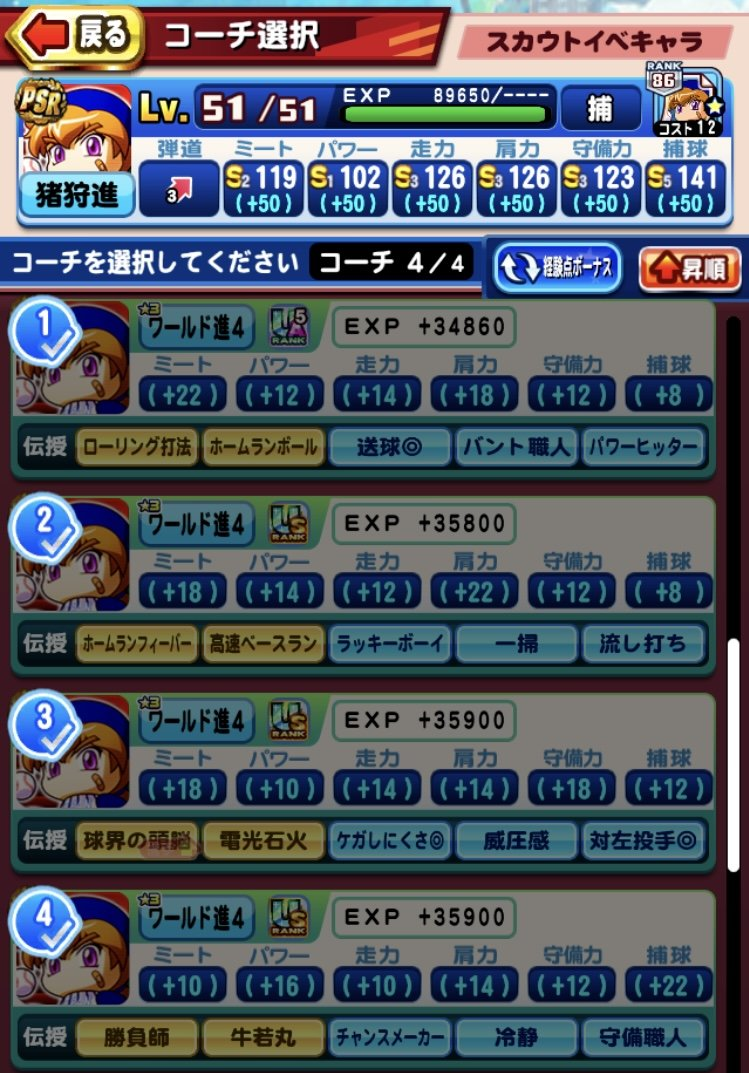
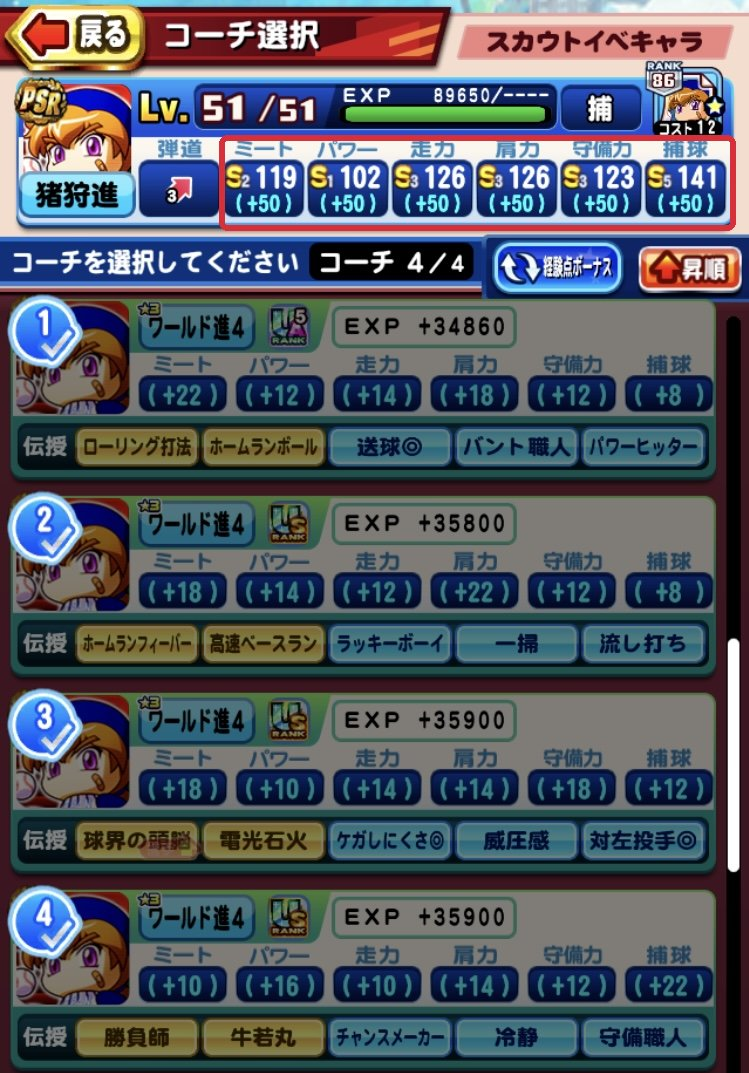
コーチ専用選手：特訓値に赤枠と「コーチだけでオール+50達成」（管理人指示）
Claude-Session: https://claude.ai/code/session_019YJeT2frMqPDhG2b5L7Hge

Changed region(s): [[0.2764, 0.123, 0.9826, 0.2153]]

diff --git a/src/pages/pawaque-coach.html b/src/pages/pawaque-coach.html
@@ -28,7 +28,8 @@ noindex: yes
   <p>また、特殊能力は金特2個・青特3個を伝授する事ができます。</p>
   <p>コーチ専用選手は、<span class="em-blue">コーチ複数人で特訓値が出来るだけ+50になるようにデッキを組み、査定の高い金特2個・青特3個のみを覚えさせて育成します。</span></p>
   <p>こうする事で、コーチを付けた時に特訓値がほぼ最大になり、査定の高い金特・青特が毎回必ず伝授出来るようになります。</p>
-  <img class="pq-img" src="{{root}}img/pawaque/coach_01.jpg" alt="猪狩進の契約書にコーチを4人付けた画面。ミートから捕球まで6つの特訓値がすべて+50になり、4人のコーチがそれぞれ金特2個・青特3個を伝授している" width="749" height="1073" loading="lazy">
+  <img class="pq-img" src="{{root}}img/pawaque/coach_01.jpg" alt="猪狩進の契約書にコーチを4人付けた画面。ミートから捕球まで6つの特訓値がすべて+50になり（赤枠）、4人のコーチがそれぞれ金特2個・青特3個を伝授している" width="749" height="1073" loading="lazy">
+  <p class="pq-cap"><span class="em-red">コーチだけでオール+50達成</span></p>
 
   <h2 id="sim">自分の契約書・手持ちキャラで<span class="cp-nw">一番いい組み合わせを</span><span class="cp-nw">調べるには？</span></h2>
   <p><span class="em-blue">専用のシミュレータを作りました、<a href="{{root}}pawaque/contract_simulator/">コチラ</a>。</span></p>

diff --git a/docs/pawaque/coach/index.html b/docs/pawaque/coach/index.html
@@ -77,7 +77,8 @@
   <p>また、特殊能力は金特2個・青特3個を伝授する事ができます。</p>
   <p>コーチ専用選手は、<span class="em-blue">コーチ複数人で特訓値が出来るだけ+50になるようにデッキを組み、査定の高い金特2個・青特3個のみを覚えさせて育成します。</span></p>
   <p>こうする事で、コーチを付けた時に特訓値がほぼ最大になり、査定の高い金特・青特が毎回必ず伝授出来るようになります。</p>
-  <img class="pq-img" src="../../img/pawaque/coach_01.jpg" alt="猪狩進の契約書にコーチを4人付けた画面。ミートから捕球まで6つの特訓値がすべて+50になり、4人のコーチがそれぞれ金特2個・青特3個を伝授している" width="749" height="1073" loading="lazy">
+  <img class="pq-img" src="../../img/pawaque/coach_01.jpg" alt="猪狩進の契約書にコーチを4人付けた画面。ミートから捕球まで6つの特訓値がすべて+50になり（赤枠）、4人のコーチがそれぞれ金特2個・青特3個を伝授している" width="749" height="1073" loading="lazy">
+  <p class="pq-cap"><span class="em-red">コーチだけでオール+50達成</span></p>
 
   <h2 id="sim">自分の契約書・手持ちキャラで<span class="cp-nw">一番いい組み合わせを</span><span class="cp-nw">調べるには？</span></h2>
   <p><span class="em-blue">専用のシミュレータを作りました、<a href="../../pawaque/contract_simulator/">コチラ</a>。</span></p>
